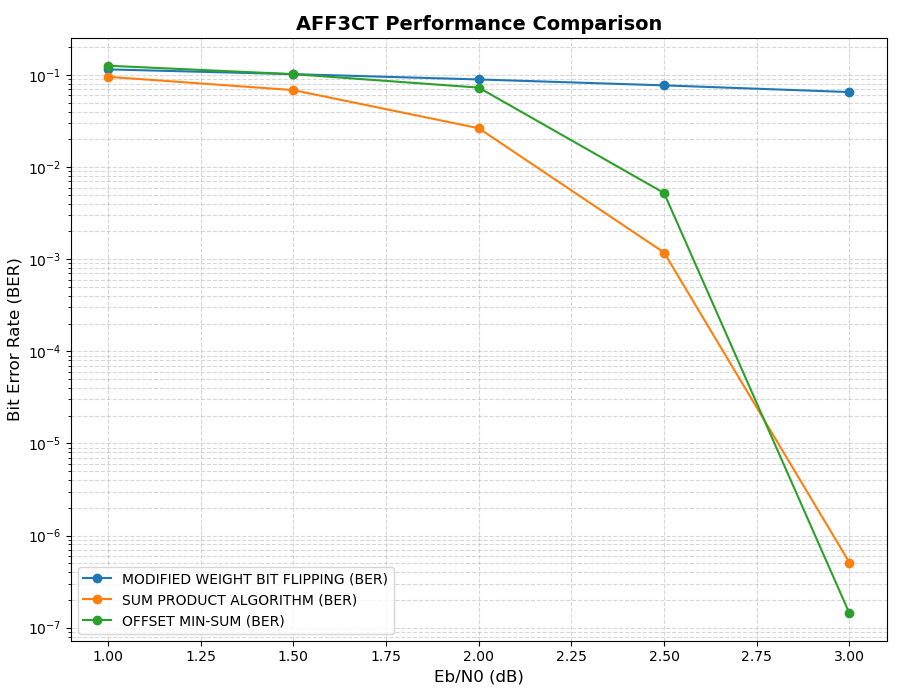
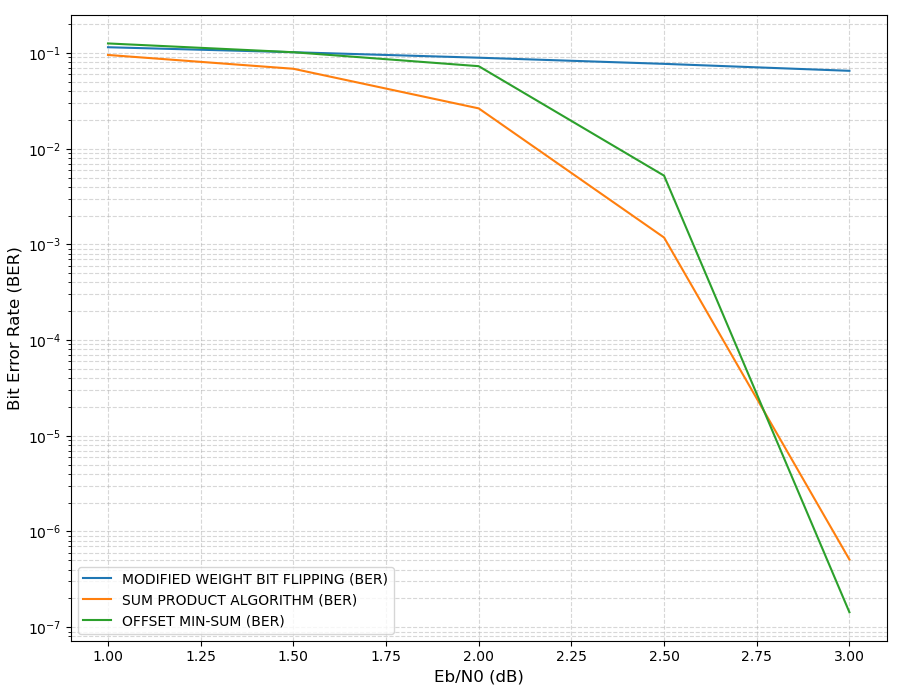
graphs

Changed region(s): [[0.0, 0.0, 0.9956, 0.9]]

diff --git a/main.py b/main.py
@@ -32,9 +32,9 @@ def parse_aff3ct_file(file_path):
 # --- CONFIGURATION ---
 # List all your AFF3CT text files here
 results_files = [
-    "k4096_r23_BF_MWBF_results.txt",
-    "k4096_r23_BP_F_SPA_results.txt",
-    "k4096_r23_BP_HL_OMS_results.txt"
+    "k4096_r45_BF_MWBF_results.txt",
+    "k4096_r45_BP_F_SPA_results.txt",
+    "k4096_r45_BP_HL_OMS_results.txt"
 ]
 algorithms = [
     'MODIFIED WEIGHT BIT FLIPPING',
@@ -70,7 +70,7 @@ ax.yaxis.set_minor_formatter(ticker.LogFormatterMathtext())
 # Clean up visual grid and labels
 plt.xlabel('Eb/N0 (dB)', fontsize=12)
 plt.ylabel('Bit Error Rate (BER)', fontsize=12)
-plt.title('AFF3CT Performance Comparison', fontsize=14, fontweight='bold')
+# plt.title('AFF3CT Performance Comparison', fontsize=14, fontweight='bold')
 plt.grid(True, which="both", linestyle="--", alpha=0.5)
 plt.legend(loc="lower left", fontsize=10)
 
